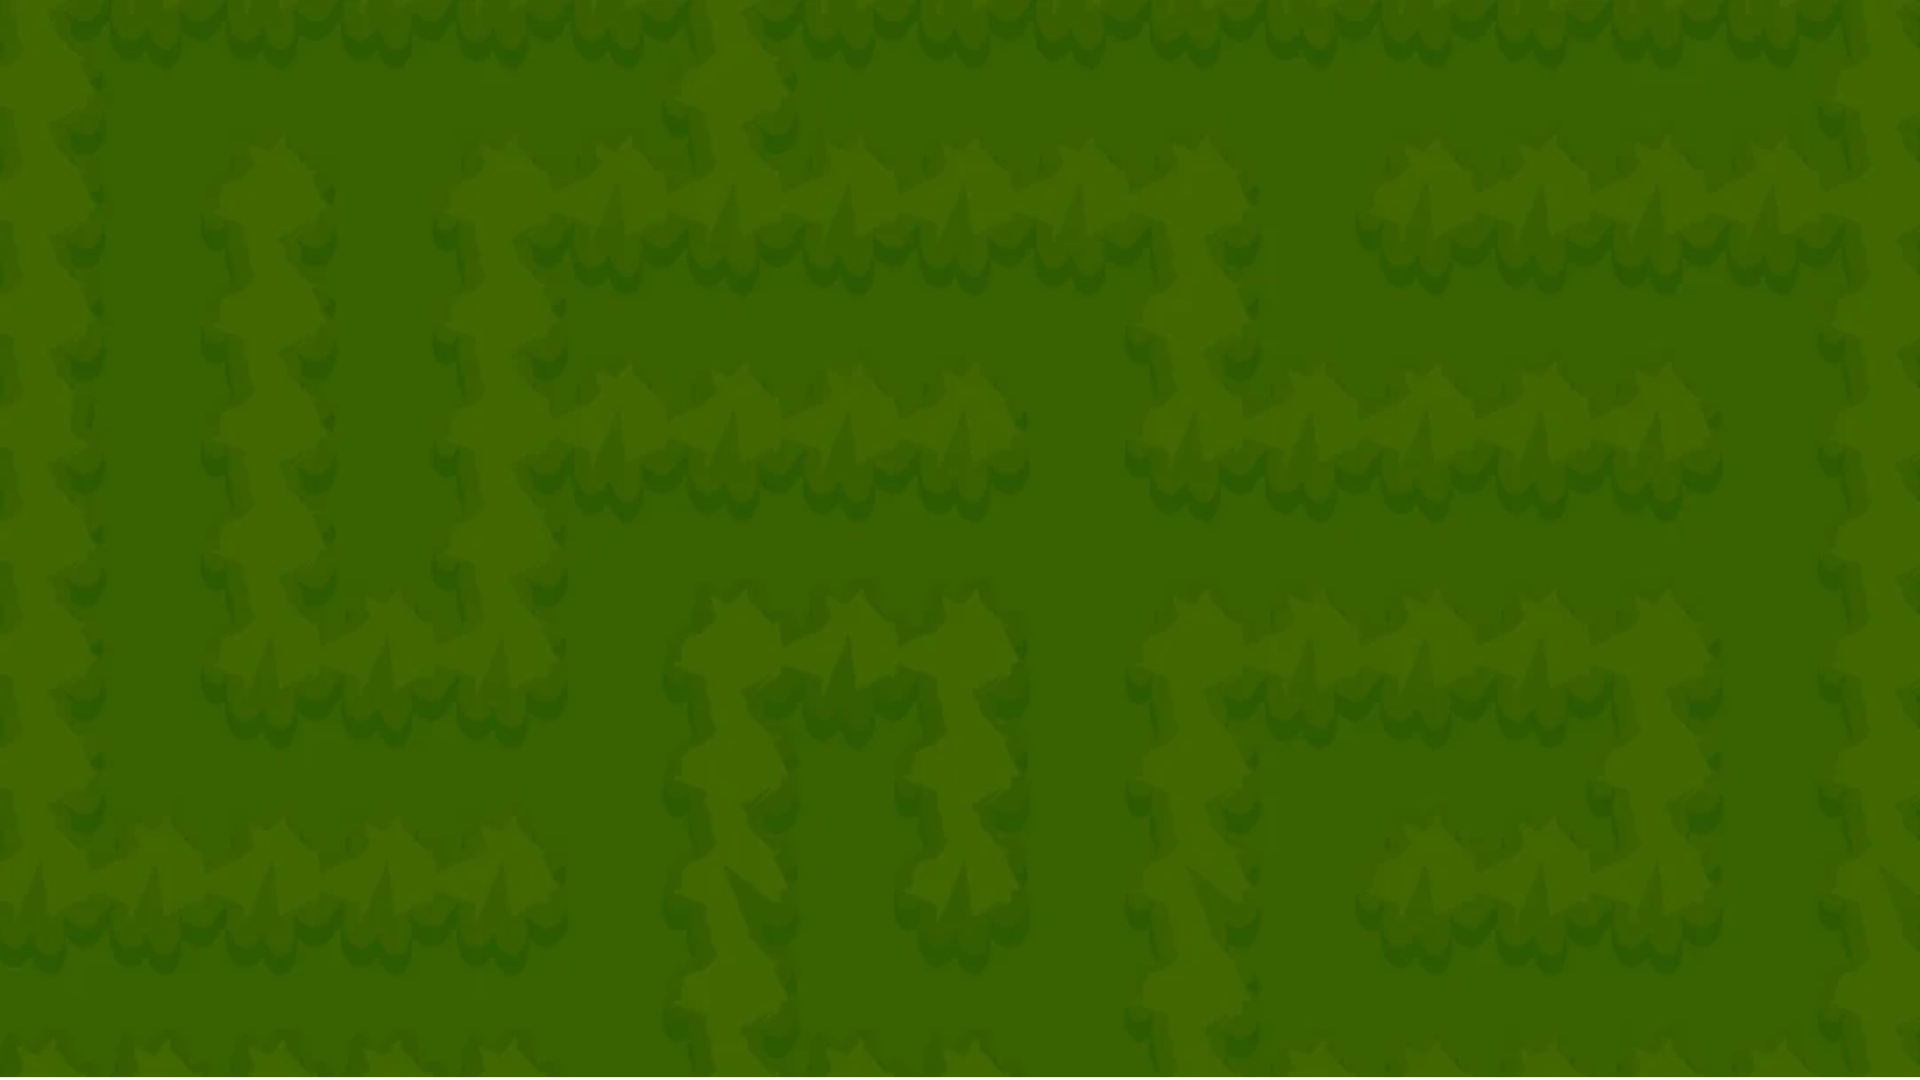
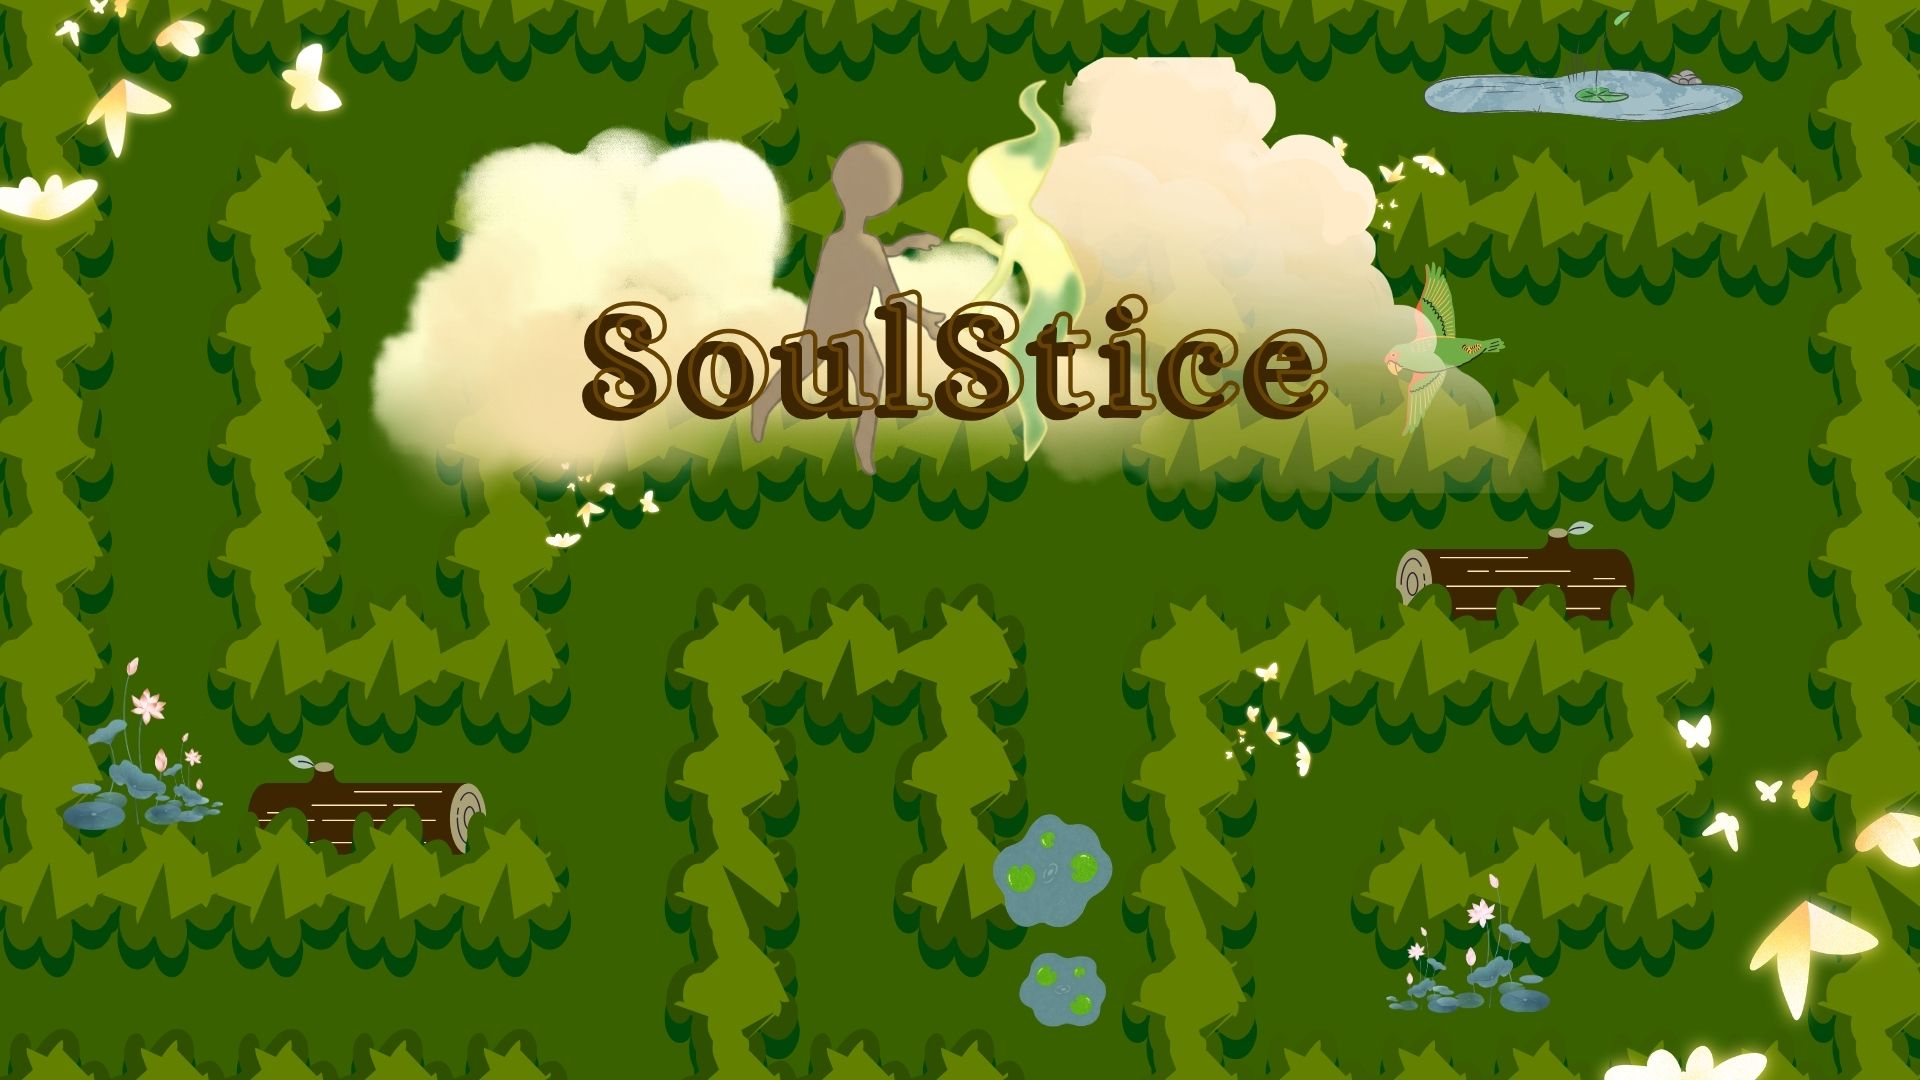
Changed main menu background

diff --git a/core/src/main/java/com/soulstice/game/MainMenuScreen.java b/core/src/main/java/com/soulstice/game/MainMenuScreen.java
@@ -20,9 +20,6 @@ public class MainMenuScreen implements Screen {
     private static final float H = 768f;
 
     private static final Color BG = new Color(0.22f, 0.38f, 0f, 1f);
-    private static final Color LOGO_FRAME = new Color(0.12f, 0.25f, 0.12f, 1f);
-    private static final Color LOGO_SURFACE = new Color(0.94f, 0.91f, 0.73f, 1f);
-
     private final SoulsticeGame game;
 
     private OrthographicCamera camera;
@@ -31,8 +28,7 @@ public class MainMenuScreen implements Screen {
     private SpriteBatch batch;
     private BitmapFont font;
 
-    // GAME LOGO
-    private Texture logo;
+
     private Texture background;
     private Texture startButtonTexture;
     private Texture settingsButtonTexture;
@@ -61,10 +57,6 @@ public class MainMenuScreen implements Screen {
         shapes = new ShapeRenderer();
         batch = new SpriteBatch();
         font = new BitmapFont();
-
-        // LOAD GAME LOGO
-        logo = new Texture(Gdx.files.internal("logo.png"));
-        logo.setFilter(Texture.TextureFilter.Linear, Texture.TextureFilter.Linear);
 
         // LOAD MAIN MENU BACKGROUND
         background = new Texture(Gdx.files.internal("MainMenu_Background.png"));
@@ -175,35 +167,6 @@ public class MainMenuScreen implements Screen {
             return;
         }
 
-        float logoCenterX = W / 2f;
-        float logoCenterY = 555f;
-        float frameRadius = 136f;
-
-        shapes.begin(ShapeRenderer.ShapeType.Filled);
-        shapes.setColor(LOGO_FRAME);
-        shapes.circle(logoCenterX, logoCenterY, frameRadius);
-        shapes.setColor(LOGO_SURFACE);
-        shapes.circle(logoCenterX, logoCenterY, frameRadius - 8f);
-        shapes.end();
-
-        float maxLogoSize = (frameRadius - 20f) * 2f;
-        float logoScale = Math.min(
-            maxLogoSize / logo.getWidth(),
-            maxLogoSize / logo.getHeight()
-        );
-        float logoWidth = logo.getWidth() * logoScale;
-        float logoHeight = logo.getHeight() * logoScale;
-
-        batch.begin();
-        batch.draw(
-            logo,
-            logoCenterX - logoWidth / 2f,
-            logoCenterY - logoHeight / 2f,
-            logoWidth,
-            logoHeight
-        );
-        batch.end();
-
         startButton.draw(batch, startButtonTexture);
         settingsButton.draw(batch, settingsButtonTexture);
         quitButton.draw(batch, quitButtonTexture);
@@ -274,8 +237,6 @@ public class MainMenuScreen implements Screen {
         batch.dispose();
         font.dispose();
 
-        // DISPOSE LOGO
-        logo.dispose();
         background.dispose();
         startButtonTexture.dispose();
         settingsButtonTexture.dispose();
